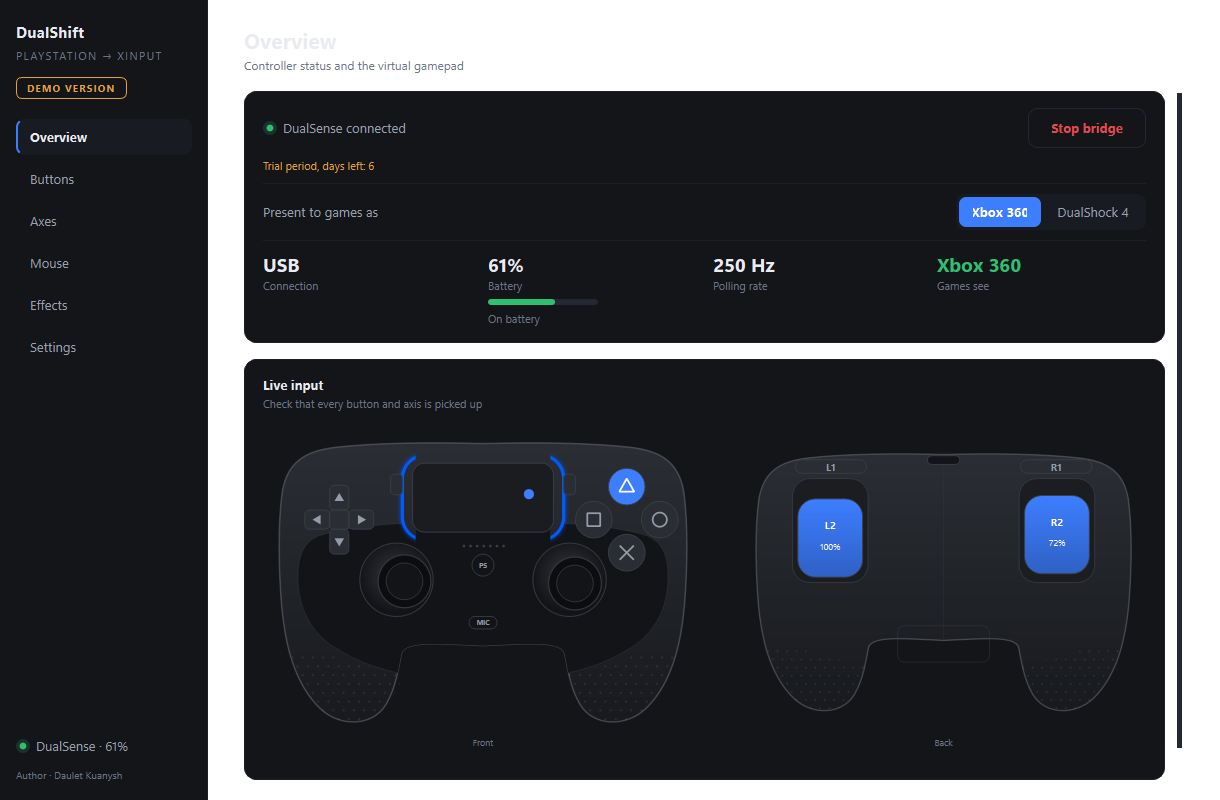
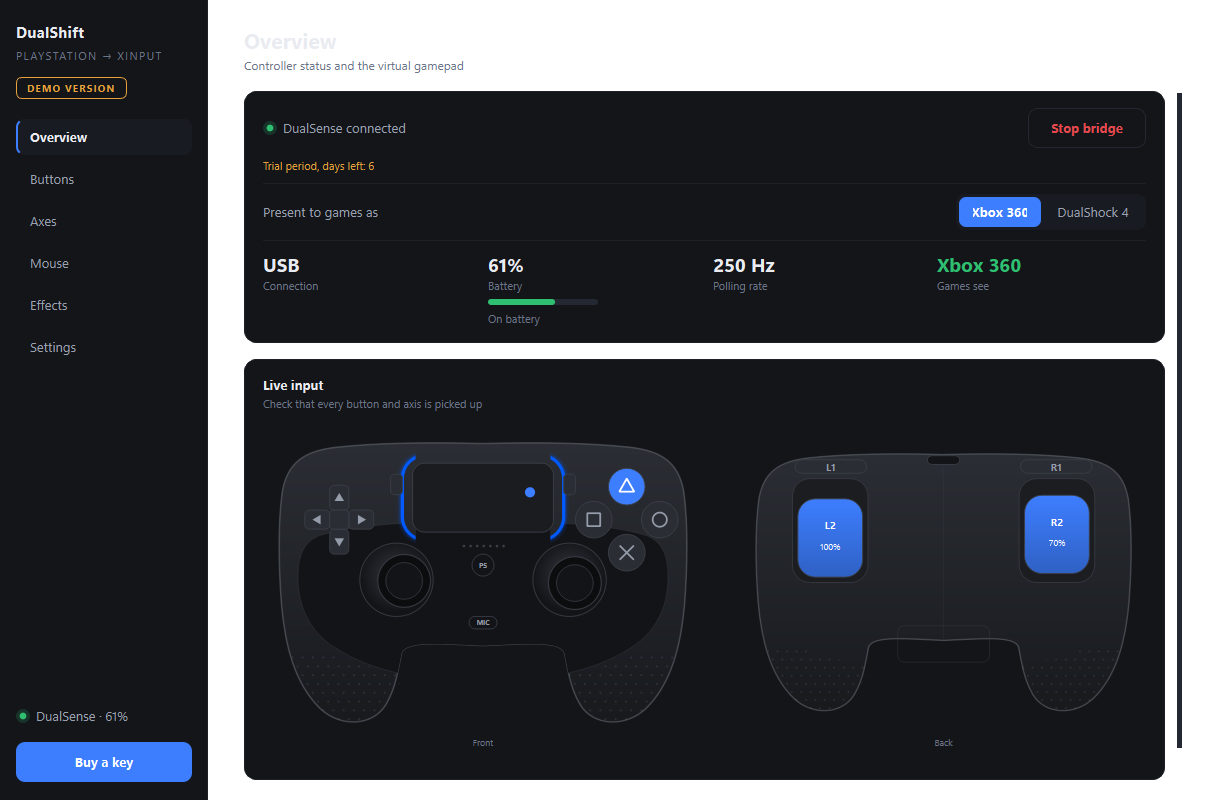
Версия 1.0.1: кнопка покупки через бота, новые скриншоты, хеш

Changed region(s): [[0.0, 0.875, 0.1557, 1.0]]

diff --git a/docs/release-notes-1.0.1.md b/docs/release-notes-1.0.1.md
@@ -1,0 +1,31 @@
+Free for 7 days, every feature unlocked. Windows 10 and 11, 64-bit.
+
+**What's new in 1.0.1**
+
+- **Buy a key right from the app.** A button in the bottom-left corner opens the DualShift bot in Telegram with your computer code already filled in. Pay with Telegram Stars and the key arrives in the same chat — no forms, no copying codes by hand.
+- The developer credit moved to Settings → About, so the sidebar stays clean.
+
+**What's inside**
+
+- Xbox 360 output, so games that ignore PlayStation pads work — or DualShock 4 output, for games that show native icons and use the touchpad
+- Rumble from the game, adjustable strength
+- Gyro aiming, adaptive triggers, your own light bar colour
+- Mouse mode: cursor from the stick, the gyro or the touchpad
+- On-screen keyboard that types into any window — English, Russian, Kazakh
+- Per-game profiles, dead zones and response curves, 14 interface languages
+
+**Installing**
+
+Run `DualShift Demo Setup.exe`. Windows shows a SmartScreen warning — the installer is not code-signed yet: **More info → Run anyway**. Agree to install the bundled ViGEmBus driver when the installer offers it; without it Windows cannot create the virtual controller.
+
+Already have 1.0.0? Just install on top — your settings, profiles and trial stay where they are.
+
+**Verify the download**
+
[1 lines of base64/hex data omitted]
+
+```powershell
+Get-FileHash "$HOME\Downloads\DualShift Demo Setup.exe" -Algorithm SHA256
+```
+
+Bugs and questions — open an Issue. Please say which Windows version and controller you have, and whether it is connected by USB or Bluetooth.

diff --git a/README.md b/README.md
@@ -78,22 +78,28 @@ nothing is watermarked. After that it needs a key.
 A key is issued for one computer: it is tied to the machine ID, so it keeps
 working after a reinstall of the program, but not on a second PC.
 
-To buy a key, write to **dauletcrazyone@gmail.com** — tell me the machine
-code shown on the Settings page of the program, and the key comes back by
-mail. You can also open an [Issue](../../issues).
+**The quickest way to buy:** press **Buy a key** in the bottom-left corner of
+the program. It opens [@DualShift_bot](https://t.me/DualShift_bot) in
+Telegram with your computer code already filled in — pay with Telegram Stars
+and the key arrives in the same chat, usually within seconds.
+
+No Telegram? Write to **dauletcrazyone@gmail.com** with the computer code from
+Settings, and the key comes back by mail.
 
 ## Privacy
 
 DualShift works offline. There is no account, no telemetry and no analytics —
 the trial dates and the key are stored on your own computer, and the program
-does not send anything anywhere.
+sends nothing on its own. The only thing that ever leaves your PC is the
+computer code, and only when you press **Buy a key** yourself: it goes into
+the Telegram link so the bot knows which computer to issue the key for.
 
 ## Verifying the download
 
-`DualShift Demo Setup.exe` — 46.5 MB
+`DualShift Demo Setup.exe` 1.0.1 — 46.5 MB
 
 ```
-SHA-256  7985c3909b9886fcddecc880c96096891e31f10c4dfb9cd4bf7325a81fae75f5
+SHA-256  f43afdc8b73cd5c14e3e184f9a8f3a363755cd3003a90a00dd155358b780efdc
 ```
 
 Check it in PowerShell before running:
